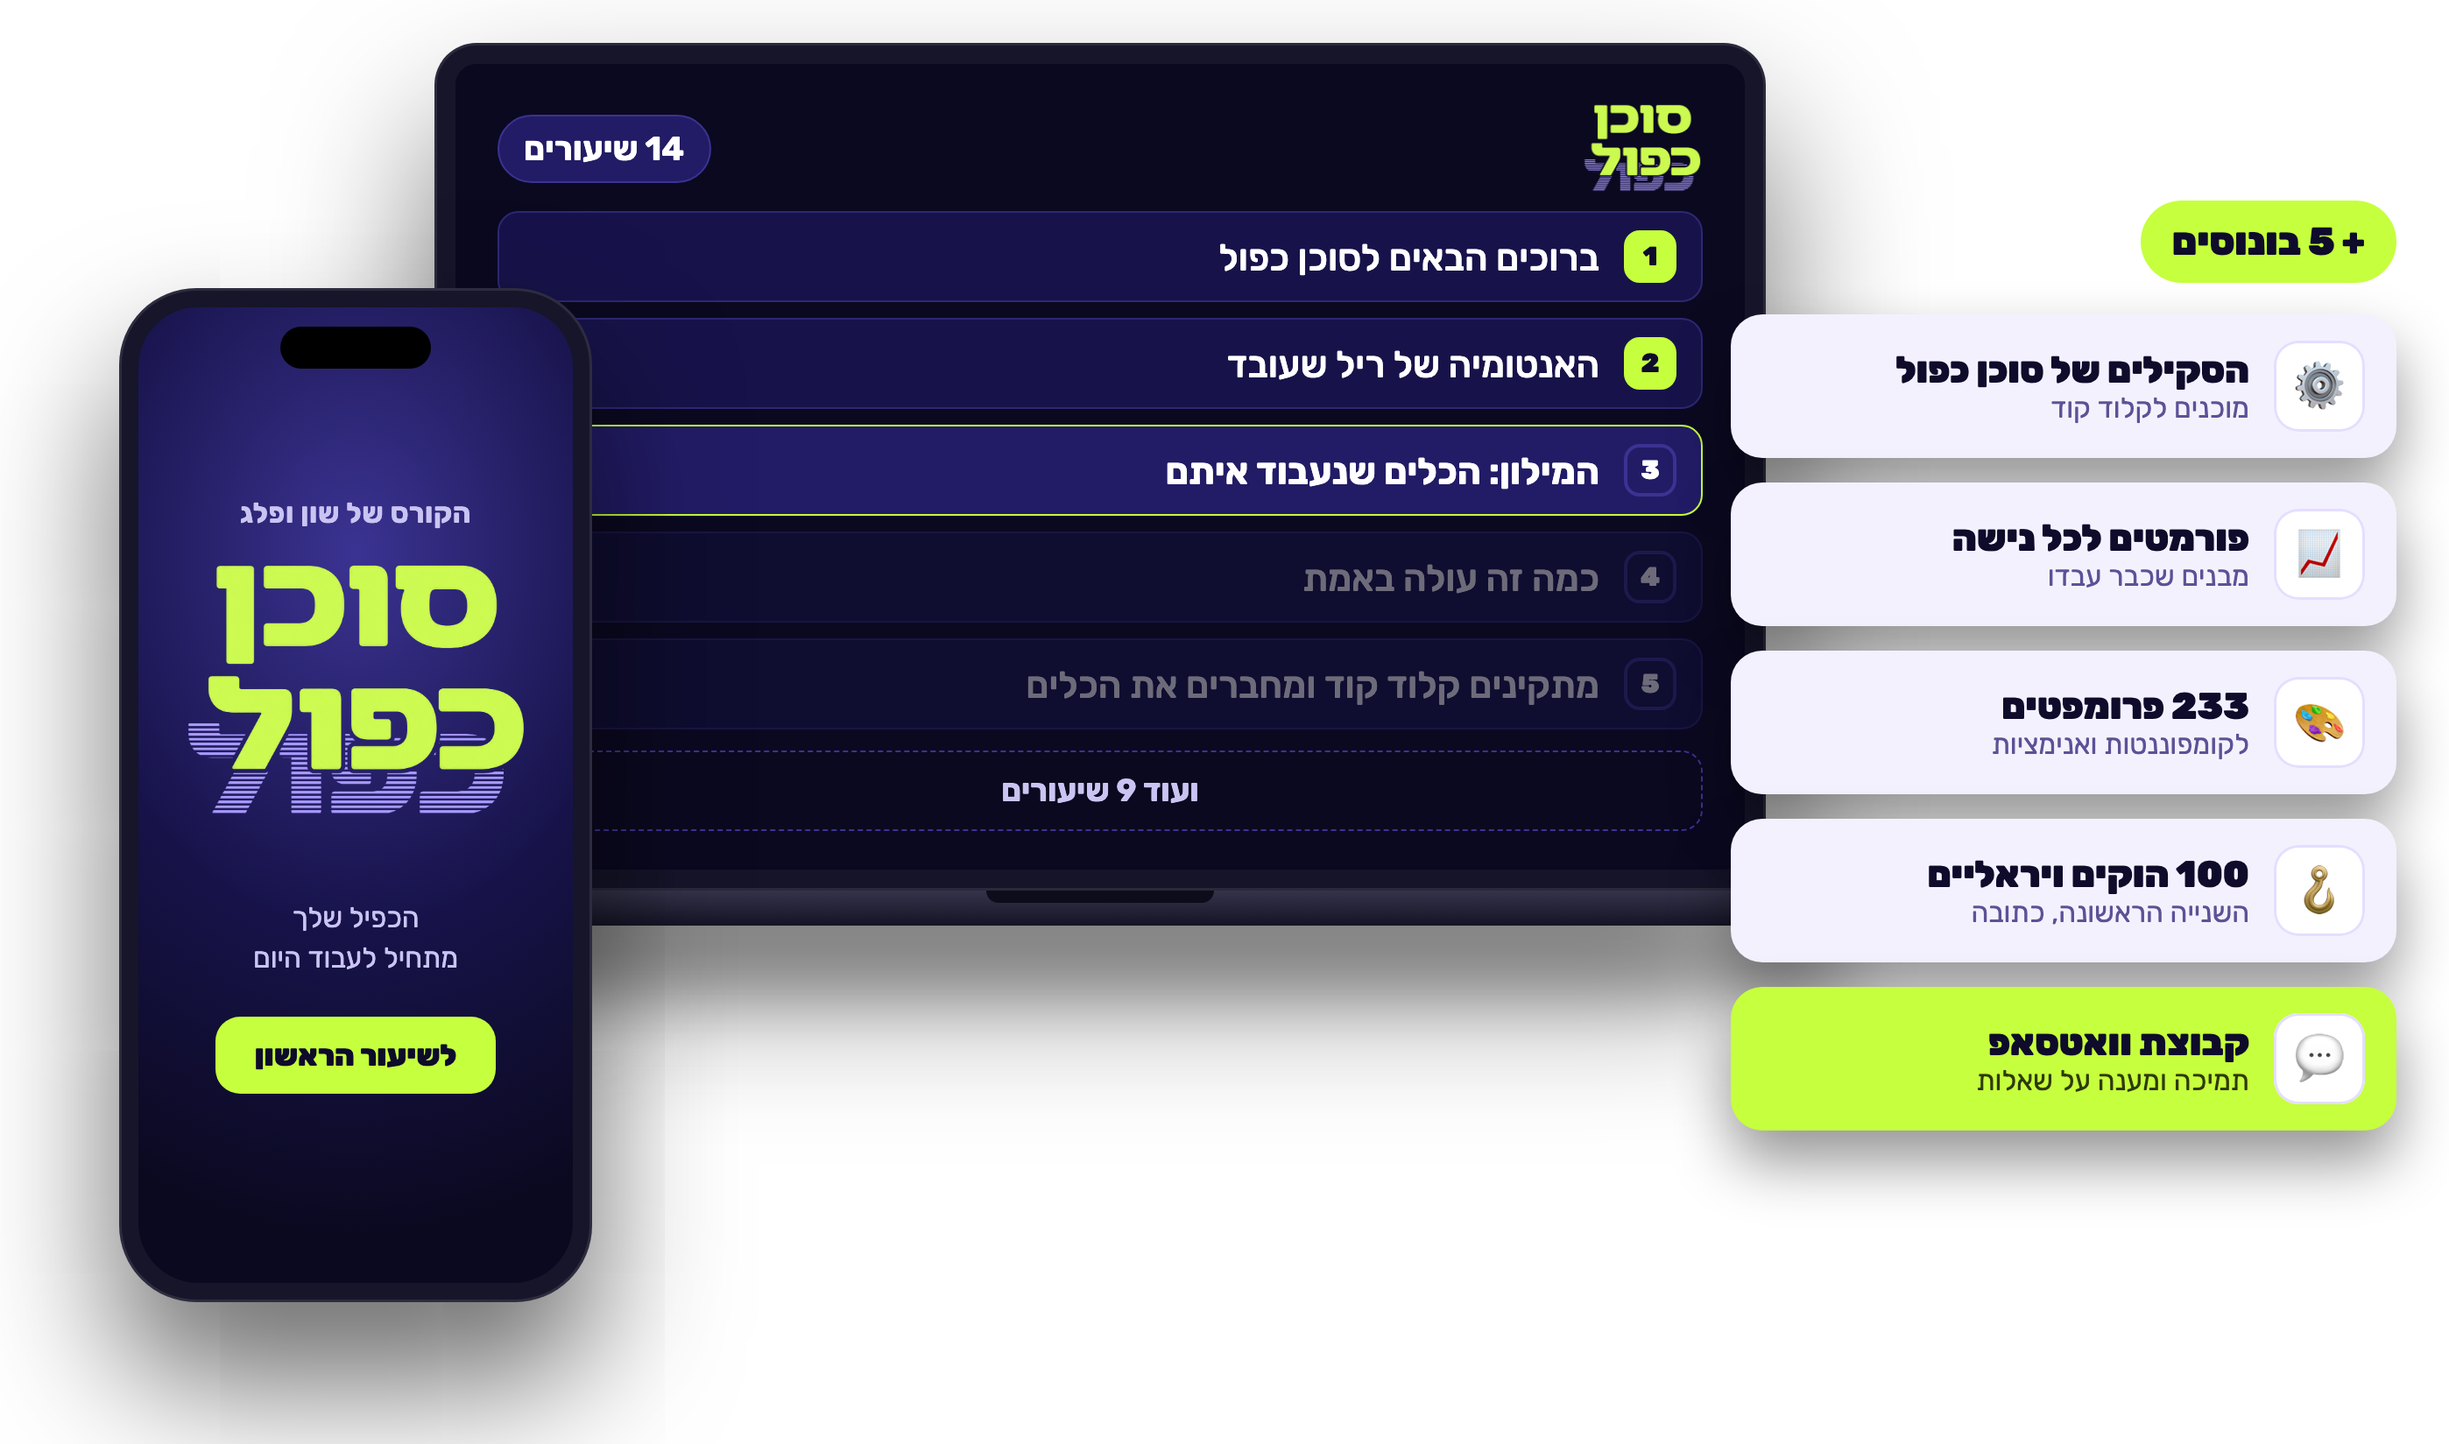
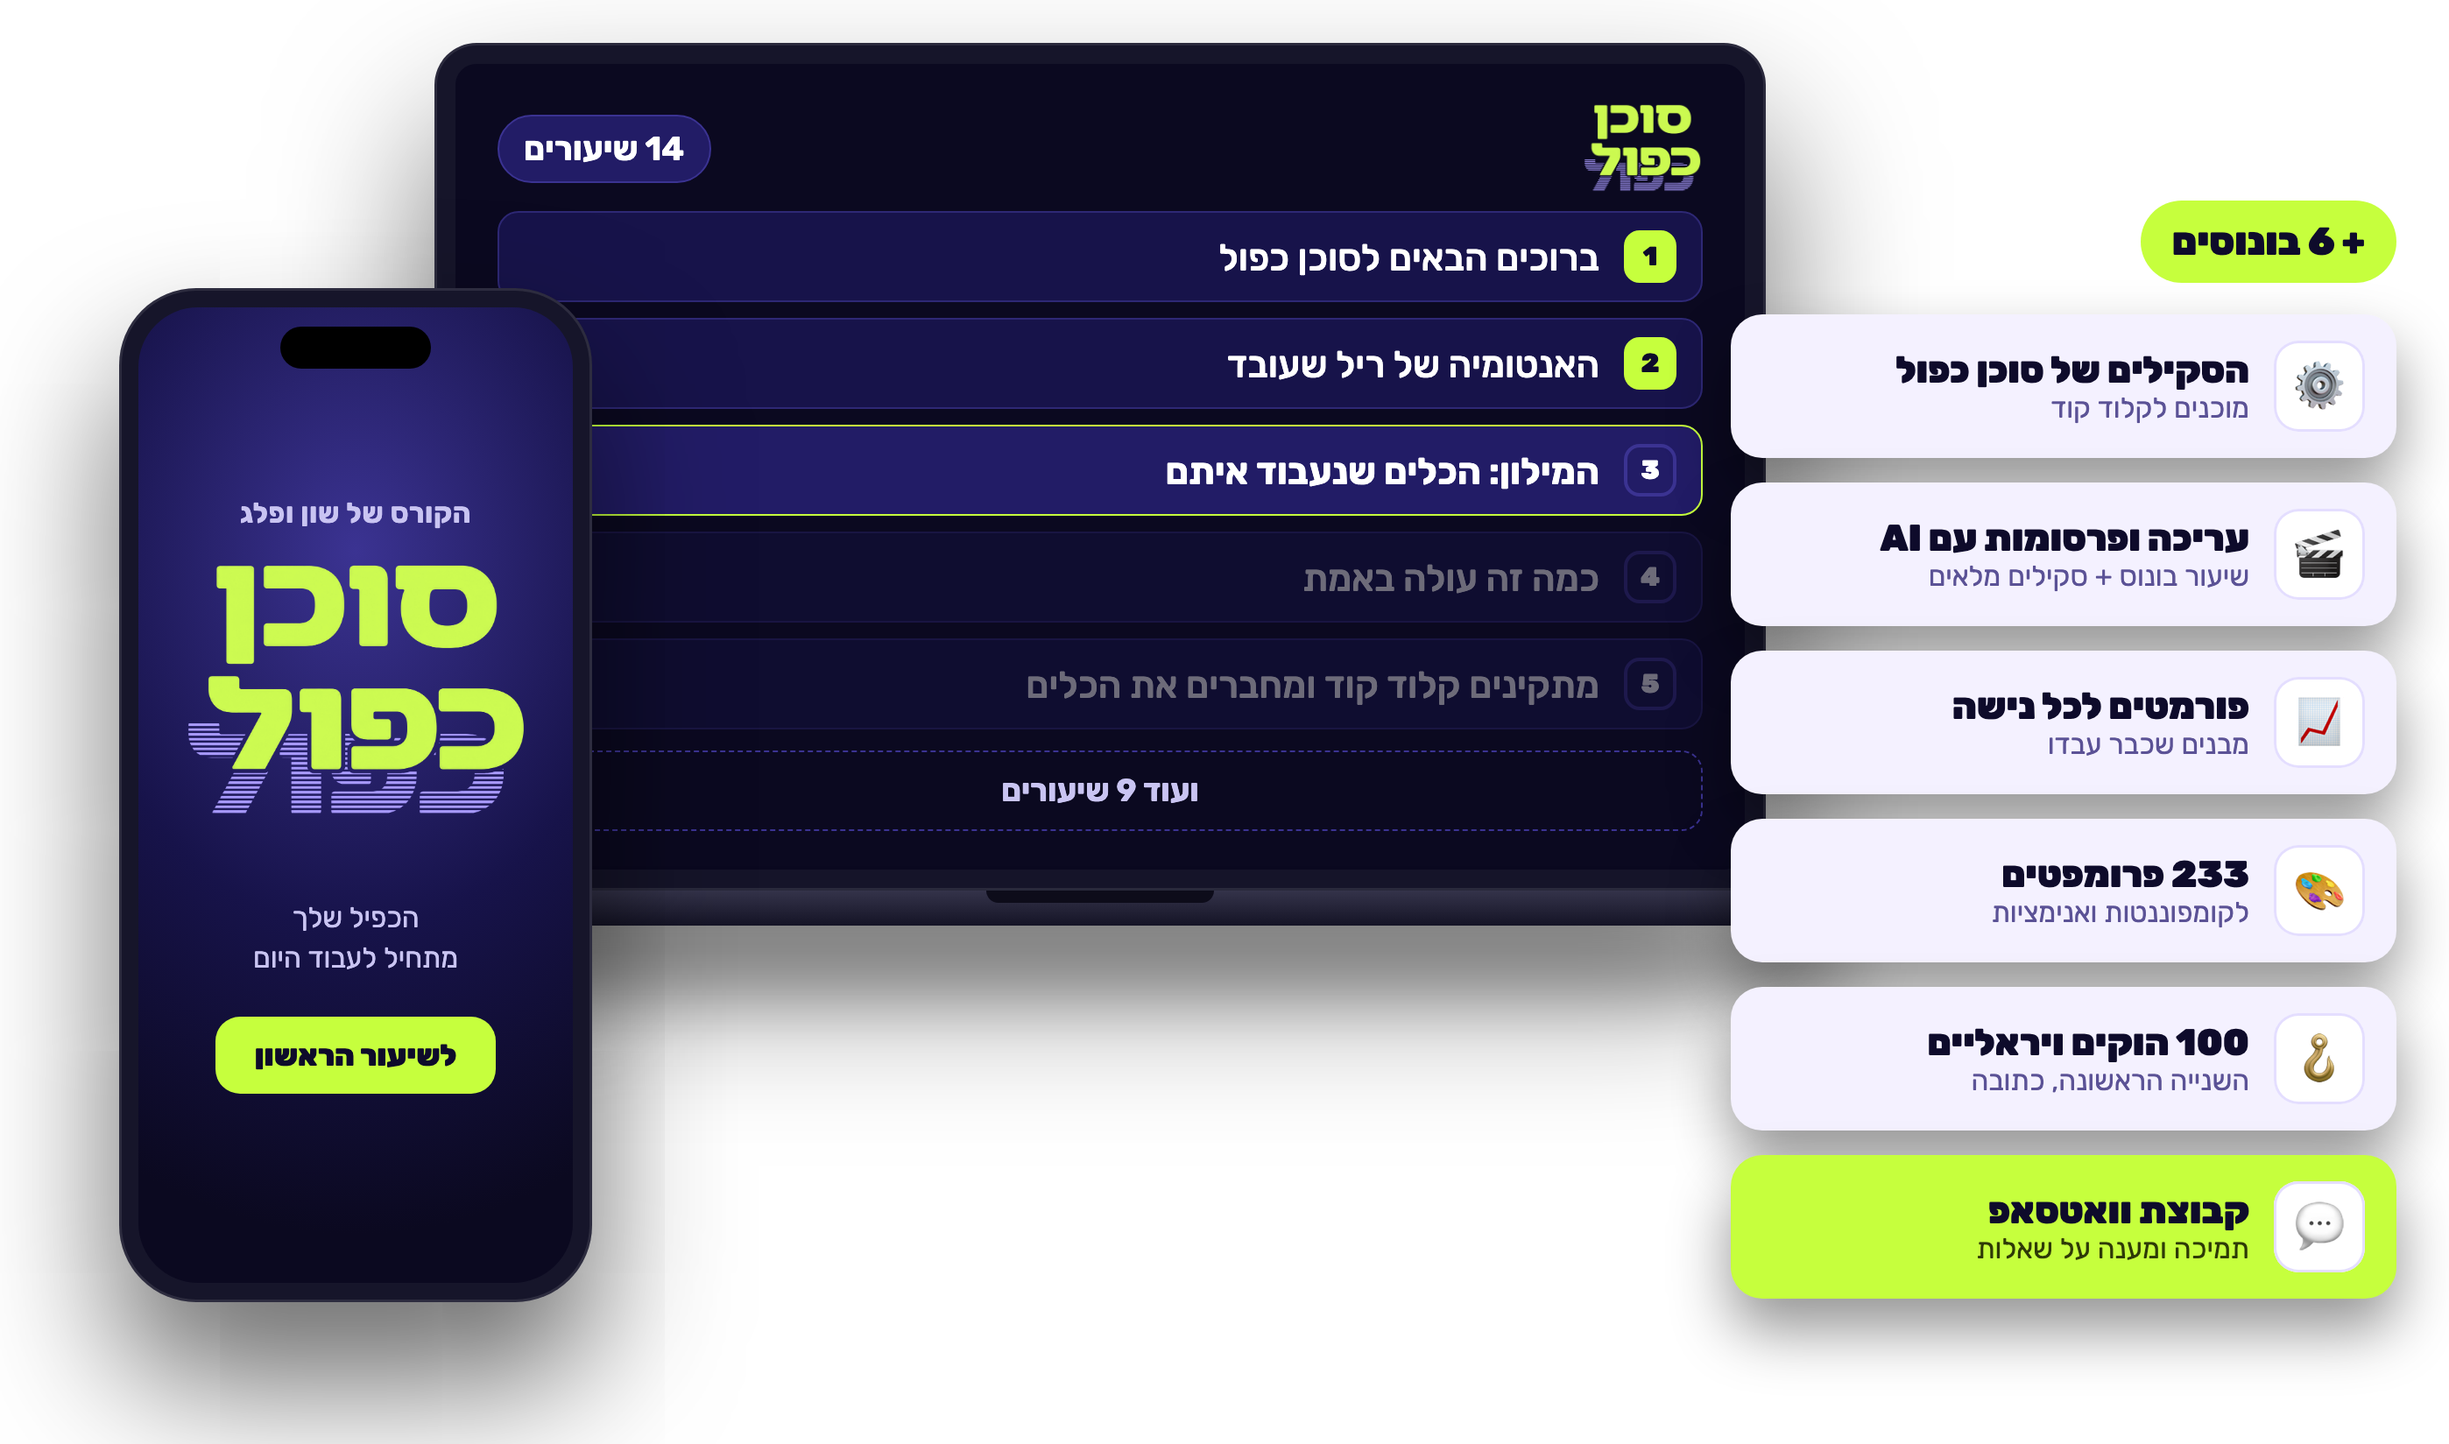
v3: בונוס #2 חדש 'עריכת סרטונים ויצירת פרסומות עם AI' (1,497), 6 בונוסים, שווי כולל 7,279, מוקאפים מעודכנים

diff --git a/variations/v3-indigo/index.html b/variations/v3-indigo/index.html
@@ -606,6 +606,8 @@ section .lead,.s7-head,.s12-head,.s11-head{text-align:center;align-items:center}
 .mk-phones{display:flex;gap:12px;align-items:flex-end;height:100%;padding-top:10px}
 .mk-ph{position:relative;width:86px;aspect-ratio:9/16;border-radius:14px;border:3px solid #0E0B2B;background:#000 url(../../assets/video/peleg-face-clean.jpg) center 30%/cover;box-shadow:0 18px 40px -24px rgba(0,0,0,.6)}
 .mk-ph.p2{width:100px;box-shadow:0 18px 40px -24px rgba(0,0,0,.6)}
+.mk-ph video{width:100%;height:100%;object-fit:cover;border-radius:11px;display:block}
+.mk-ph .ai{position:absolute;left:50%;top:-11px;z-index:2;translate:-50% 0;white-space:nowrap;font-weight:900;font-size:12px;line-height:1;padding:6px 9px;border-radius:999px;background:var(--lime);color:#0E0B2B;box-shadow:0 6px 14px -6px rgba(0,0,0,.5)}
 .mk-ph .cap{position:absolute;left:50%;bottom:30%;translate:-50% 0;white-space:nowrap;font-weight:900;font-size:13px;line-height:1;padding:5px 8px;animation:capop 3s var(--pop) infinite}
 .mk-ph.p1 .cap{background:var(--lime);color:#0E0B2B;border-radius:6px}
 .mk-ph.p2 .cap{color:#fff;-webkit-text-stroke:.6px #0E0B2B;font-size:16px;animation-delay:-1s}
@@ -1356,9 +1358,21 @@ section .lead,.s7-head,.s12-head,.s11-head{text-align:center;align-items:center}
           <i class="b-shade" aria-hidden="true"></i>
         </div>
       </article>
-      <article class="bonus" style="--i:1;--pnl:#221C66;--bd:#A99BFF;--sh:#C6FF3D;--tag:#C6FF3D;--tagc:#0E0B2B;--tx:#FFFFFF;--pdim:#C9C4F2;--vbg:#151236">
+      <article class="bonus" style="--i:1;--pnl:#A99BFF;--bd:#0E0B2B;--sh:#0E0B2B;--tag:#0E0B2B;--tagc:#C6FF3D;--tx:#0E0B2B;--pdim:#2B2560;--vbg:#8F80F0">
         <div class="bcard">
           <span class="b-tag">בונוס #2</span>
+          <div class="b-body">
+            <h3>עריכת סרטונים ויצירת פרסומות עם AI</h3>
+            <p>שיעור בונוס וסקילים מלאים על כל התהליך, <b>שבו נהפוך את ה-AI לעורך הווידאו הפרטי שלנו, לכל מטרה.</b> רק הפרק הזה הולך לחסוך לך אלפי שקלים על עורכי וידאו.</p>
+            <span class="b-val"><span aria-hidden="true">💰</span> שווי: 1,497 ש״ח</span>
+          </div>
+          <div class="b-vis" aria-hidden="true"><div class="mk"><div class="mk-phones"><div class="mk-ph p1"><video class="loop" muted playsinline loop preload="none" poster="../../assets/course/ads/03_no_work.jpg" data-src="../../assets/course/ads/03_no_work-loop.mp4"></video></div><div class="mk-ph p2"><video class="loop" muted playsinline loop preload="none" poster="../../assets/course/ads/06_midnight.jpg" data-src="../../assets/course/ads/06_midnight-loop.mp4"></video><span class="ai">נערך ב-AI</span></div><div class="mk-ph p3"><video class="loop" muted playsinline loop preload="none" poster="../../assets/course/ads/08_like_me.jpg" data-src="../../assets/course/ads/08_like_me-loop.mp4"></video></div></div></div></div>
+          <i class="b-shade" aria-hidden="true"></i>
+        </div>
+      </article>
+      <article class="bonus" style="--i:2;--pnl:#221C66;--bd:#A99BFF;--sh:#C6FF3D;--tag:#C6FF3D;--tagc:#0E0B2B;--tx:#FFFFFF;--pdim:#C9C4F2;--vbg:#151236">
+        <div class="bcard">
+          <span class="b-tag">בונוס #3</span>
           <div class="b-body">
             <h3>ספריית 233 פרומפטים לקומפוננטות עיצוב ואנימציות</h3>
             <p><b>מדביקים בקלוד קוד, ומקבלים קומפוננטה מעוצבת עם אנימציה.</b> 233 פרומפטים מוכנים, מסודרים לפי סוג.</p>
@@ -1368,9 +1382,9 @@ section .lead,.s7-head,.s12-head,.s11-head{text-align:center;align-items:center}
           <i class="b-shade" aria-hidden="true"></i>
         </div>
       </article>
-      <article class="bonus" style="--i:2;--pnl:#A99BFF;--bd:#0E0B2B;--sh:#0E0B2B;--tag:#0E0B2B;--tagc:#C6FF3D;--tx:#0E0B2B;--pdim:#2B2560;--vbg:#8F80F0">
+      <article class="bonus" style="--i:3;--pnl:#A99BFF;--bd:#0E0B2B;--sh:#0E0B2B;--tag:#0E0B2B;--tagc:#C6FF3D;--tx:#0E0B2B;--pdim:#2B2560;--vbg:#8F80F0">
         <div class="bcard">
-          <span class="b-tag">בונוס #3</span>
+          <span class="b-tag">בונוס #4</span>
           <div class="b-body">
             <h3>100 הוקים ויראליים מוכחים</h3>
             <p>השנייה הראשונה של הסרטון קובעת אם יגללו הלאה. <b>פה היא כבר כתובה בשבילך.</b></p>
@@ -1380,9 +1394,9 @@ section .lead,.s7-head,.s12-head,.s11-head{text-align:center;align-items:center}
           <i class="b-shade" aria-hidden="true"></i>
         </div>
       </article>
-      <article class="bonus" style="--i:3;--pnl:#221C66;--bd:#A99BFF;--sh:#C6FF3D;--tag:#C6FF3D;--tagc:#0E0B2B;--tx:#FFFFFF;--pdim:#C9C4F2;--vbg:#151236">
+      <article class="bonus" style="--i:4;--pnl:#221C66;--bd:#A99BFF;--sh:#C6FF3D;--tag:#C6FF3D;--tagc:#0E0B2B;--tx:#FFFFFF;--pdim:#C9C4F2;--vbg:#151236">
         <div class="bcard">
-          <span class="b-tag">בונוס #4</span>
+          <span class="b-tag">בונוס #5</span>
           <div class="b-body">
             <h3>פורמטים מוכחים לכל נישה, כדי להתפוצץ באינסטגרם</h3>
             <p>לא צריך להמציא מאפס. <b>בוחרים את הנישה שלך, ומקבלים מבנים שכבר עבדו.</b></p>
@@ -1392,9 +1406,9 @@ section .lead,.s7-head,.s12-head,.s11-head{text-align:center;align-items:center}
           <i class="b-shade" aria-hidden="true"></i>
         </div>
       </article>
-      <article class="bonus" style="--i:4;--pnl:#C6FF3D;--bd:#0E0B2B;--sh:#A99BFF;--tag:#0E0B2B;--tagc:#C6FF3D;--tx:#0E0B2B;--pdim:#2E3A07;--vbg:#B4EE2C">
+      <article class="bonus" style="--i:5;--pnl:#C6FF3D;--bd:#0E0B2B;--sh:#A99BFF;--tag:#0E0B2B;--tagc:#C6FF3D;--tx:#0E0B2B;--pdim:#2E3A07;--vbg:#B4EE2C">
         <div class="bcard">
-          <span class="b-tag">בונוס #5</span>
+          <span class="b-tag">בונוס #6</span>
           <div class="b-body">
             <h3>קבוצת וואטסאפ לתמיכה ומענה על שאלות</h3>
             <p><b>נתקעת? שולחים הודעה ומקבלים תשובה.</b> לא נשארים לבד מול המחשב.</p>
@@ -1434,17 +1448,18 @@ section .lead,.s7-head,.s12-head,.s11-head{text-align:center;align-items:center}
 <section id="s13v" class="vs">
   <div class="wrap">
     <h2 class="h2"><span class="ln m">כל מה שאתה</span> <span class="ln m lime">מקבל היום</span></h2>
-    <figure class="bundle rv"><picture><source media="(max-width:700px)" srcset="../../assets/mockup/bundle-m.webp" width="900" height="1048"><img src="../../assets/mockup/bundle.webp" alt="הקורס סוכן כפול: 14 שיעורים, הכפיל בטלפון ו-5 בונוסים" width="1400" height="827" loading="lazy"></picture></figure>
+    <figure class="bundle rv"><picture><source media="(max-width:700px)" srcset="../../assets/mockup/bundle-m.webp" width="900" height="1048"><img src="../../assets/mockup/bundle.webp" alt="הקורס סוכן כפול: 14 שיעורים, הכפיל בטלפון ו-6 בונוסים" width="1400" height="827" loading="lazy"></picture></figure>
     <h3 class="h3 vs-q rv">בוא נעשה חשבון:</h3>
     <ul class="vlist">
       <li data-v="1997"><span><span class="ve" aria-hidden="true">🎓</span>הקורס המלא: סוכן כפול</span><b>1,997 ש״ח</b></li>
       <li data-v="997"><span><span class="ve" aria-hidden="true">⚙</span>הסקילים של סוכן כפול</span><b>997 ש״ח</b></li>
+      <li data-v="1497"><span><span class="ve" aria-hidden="true">🎬</span>עריכת סרטונים ויצירת פרסומות עם AI</span><b>1,497 ש״ח</b></li>
       <li data-v="497"><span><span class="ve" aria-hidden="true">🎨</span>233 פרומפטים לקומפוננטות ואנימציות</span><b>497 ש״ח</b></li>
       <li data-v="297"><span><span class="ve" aria-hidden="true">🪝</span>100 הוקים ויראליים מוכחים</span><b>297 ש״ח</b></li>
       <li data-v="697"><span><span class="ve" aria-hidden="true">📈</span>פורמטים מוכחים לכל נישה</span><b>697 ש״ח</b></li>
       <li data-v="1297"><span><span class="ve" aria-hidden="true">💬</span>קבוצת וואטסאפ לתמיכה</span><b>1,297 ש״ח</b></li>
     </ul>
-    <div class="vtotal"><span>שווי כולל:</span><s data-total="5782">5,782 ש״ח</s></div>
+    <div class="vtotal"><span>שווי כולל:</span><s data-total="7279">7,279 ש״ח</s></div>
     <p class="vs-but rv">אבל אתה לא תשלם את זה.</p>
   </div>
 </section>
@@ -1474,7 +1489,7 @@ section .lead,.s7-head,.s12-head,.s11-head{text-align:center;align-items:center}
           </div>
           <ul class="incl">
             <li><i aria-hidden="true"></i>כל שיעורי הקורס, מוקלטים</li>
-            <li><i aria-hidden="true"></i>5 בונוסים בשווי 3,785 ש״ח</li>
+            <li><i aria-hidden="true"></i>6 בונוסים בשווי 5,282 ש״ח</li>
             <li><i aria-hidden="true"></i>קבוצת וואטסאפ לתמיכה ומענה על שאלות</li>
             
           </ul>

diff --git a/tools/mockup/bundle.html b/tools/mockup/bundle.html
@@ -62,8 +62,9 @@ body{width:1400px;height:860px;font-family:Rubik,sans-serif;position:relative;ov
     <span class="ph-btn">לשיעור הראשון</span>
   </div></div>
   <div class="bon">
-    <span class="tag">+ 5 בונוסים</span>
+    <span class="tag">+ 6 בונוסים</span>
     <div class="bc"><span class="e">⚙</span><div><b>הסקילים של סוכן כפול</b><span>מוכנים לקלוד קוד</span></div></div>
+    <div class="bc"><span class="e">🎬</span><div><b>עריכה ופרסומות עם AI</b><span>שיעור בונוס + סקילים מלאים</span></div></div>
     <div class="bc"><span class="e">📈</span><div><b>פורמטים לכל נישה</b><span>מבנים שכבר עבדו</span></div></div>
     <div class="bc"><span class="e">🎨</span><div><b>233 פרומפטים</b><span>לקומפוננטות ואנימציות</span></div></div>
     <div class="bc"><span class="e">🪝</span><div><b>100 הוקים ויראליים</b><span>השנייה הראשונה, כתובה</span></div></div>

diff --git a/tools/mockup/bundle-mobile.html b/tools/mockup/bundle-mobile.html
@@ -61,9 +61,9 @@ body{width:880px;height:1120px;font-family:Rubik,sans-serif;position:relative;ov
     <span class="ph-btn">לשיעור הראשון</span>
   </div></div>
   <div class="bon">
-    <span class="tag">+ 5 בונוסים</span>
+    <span class="tag">+ 6 בונוסים</span>
     <div class="bc"><span class="e">⚙</span><div><b>הסקילים של סוכן כפול</b><span>מוכנים לקלוד קוד</span></div></div>
-    <div class="bc"><span class="e">🪝</span><div><b>100 הוקים ויראליים</b><span>השנייה הראשונה, כתובה</span></div></div>
+    <div class="bc"><span class="e">🎬</span><div><b>עריכה ופרסומות עם AI</b><span>שיעור בונוס + סקילים מלאים</span></div></div>
     <div class="bc lime"><span class="e">💬</span><div><b>קבוצת וואטסאפ</b><span>תמיכה ומענה על שאלות</span></div></div>
   </div>
 </body>
